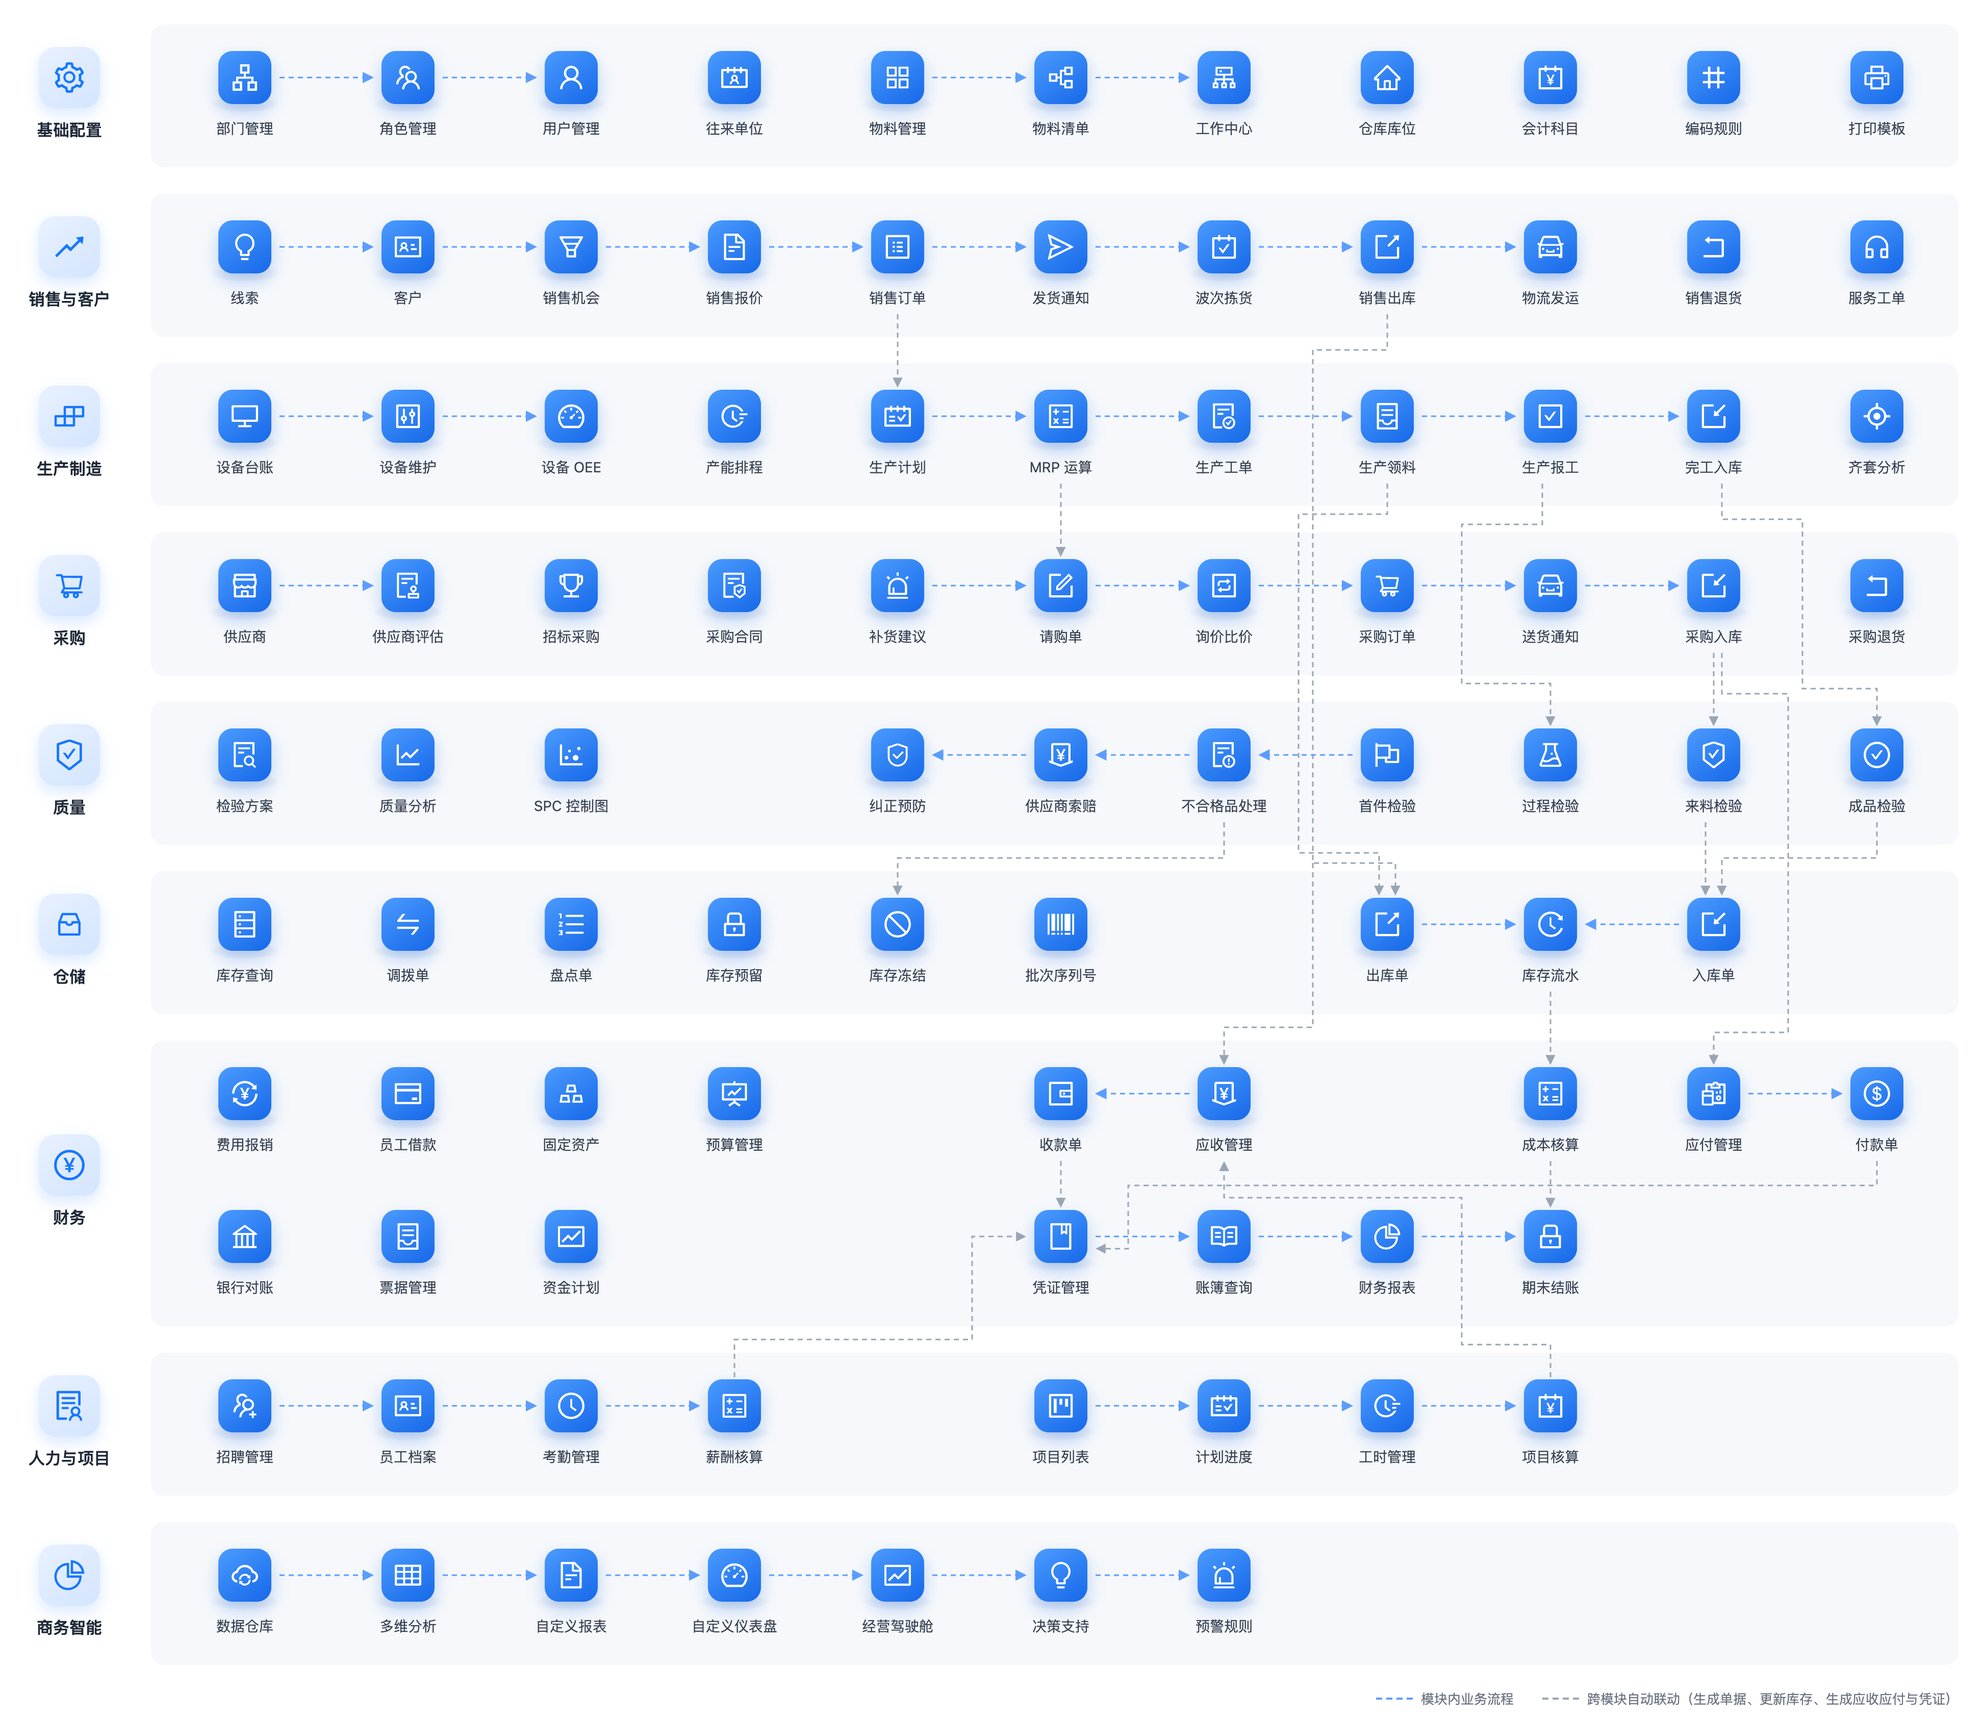
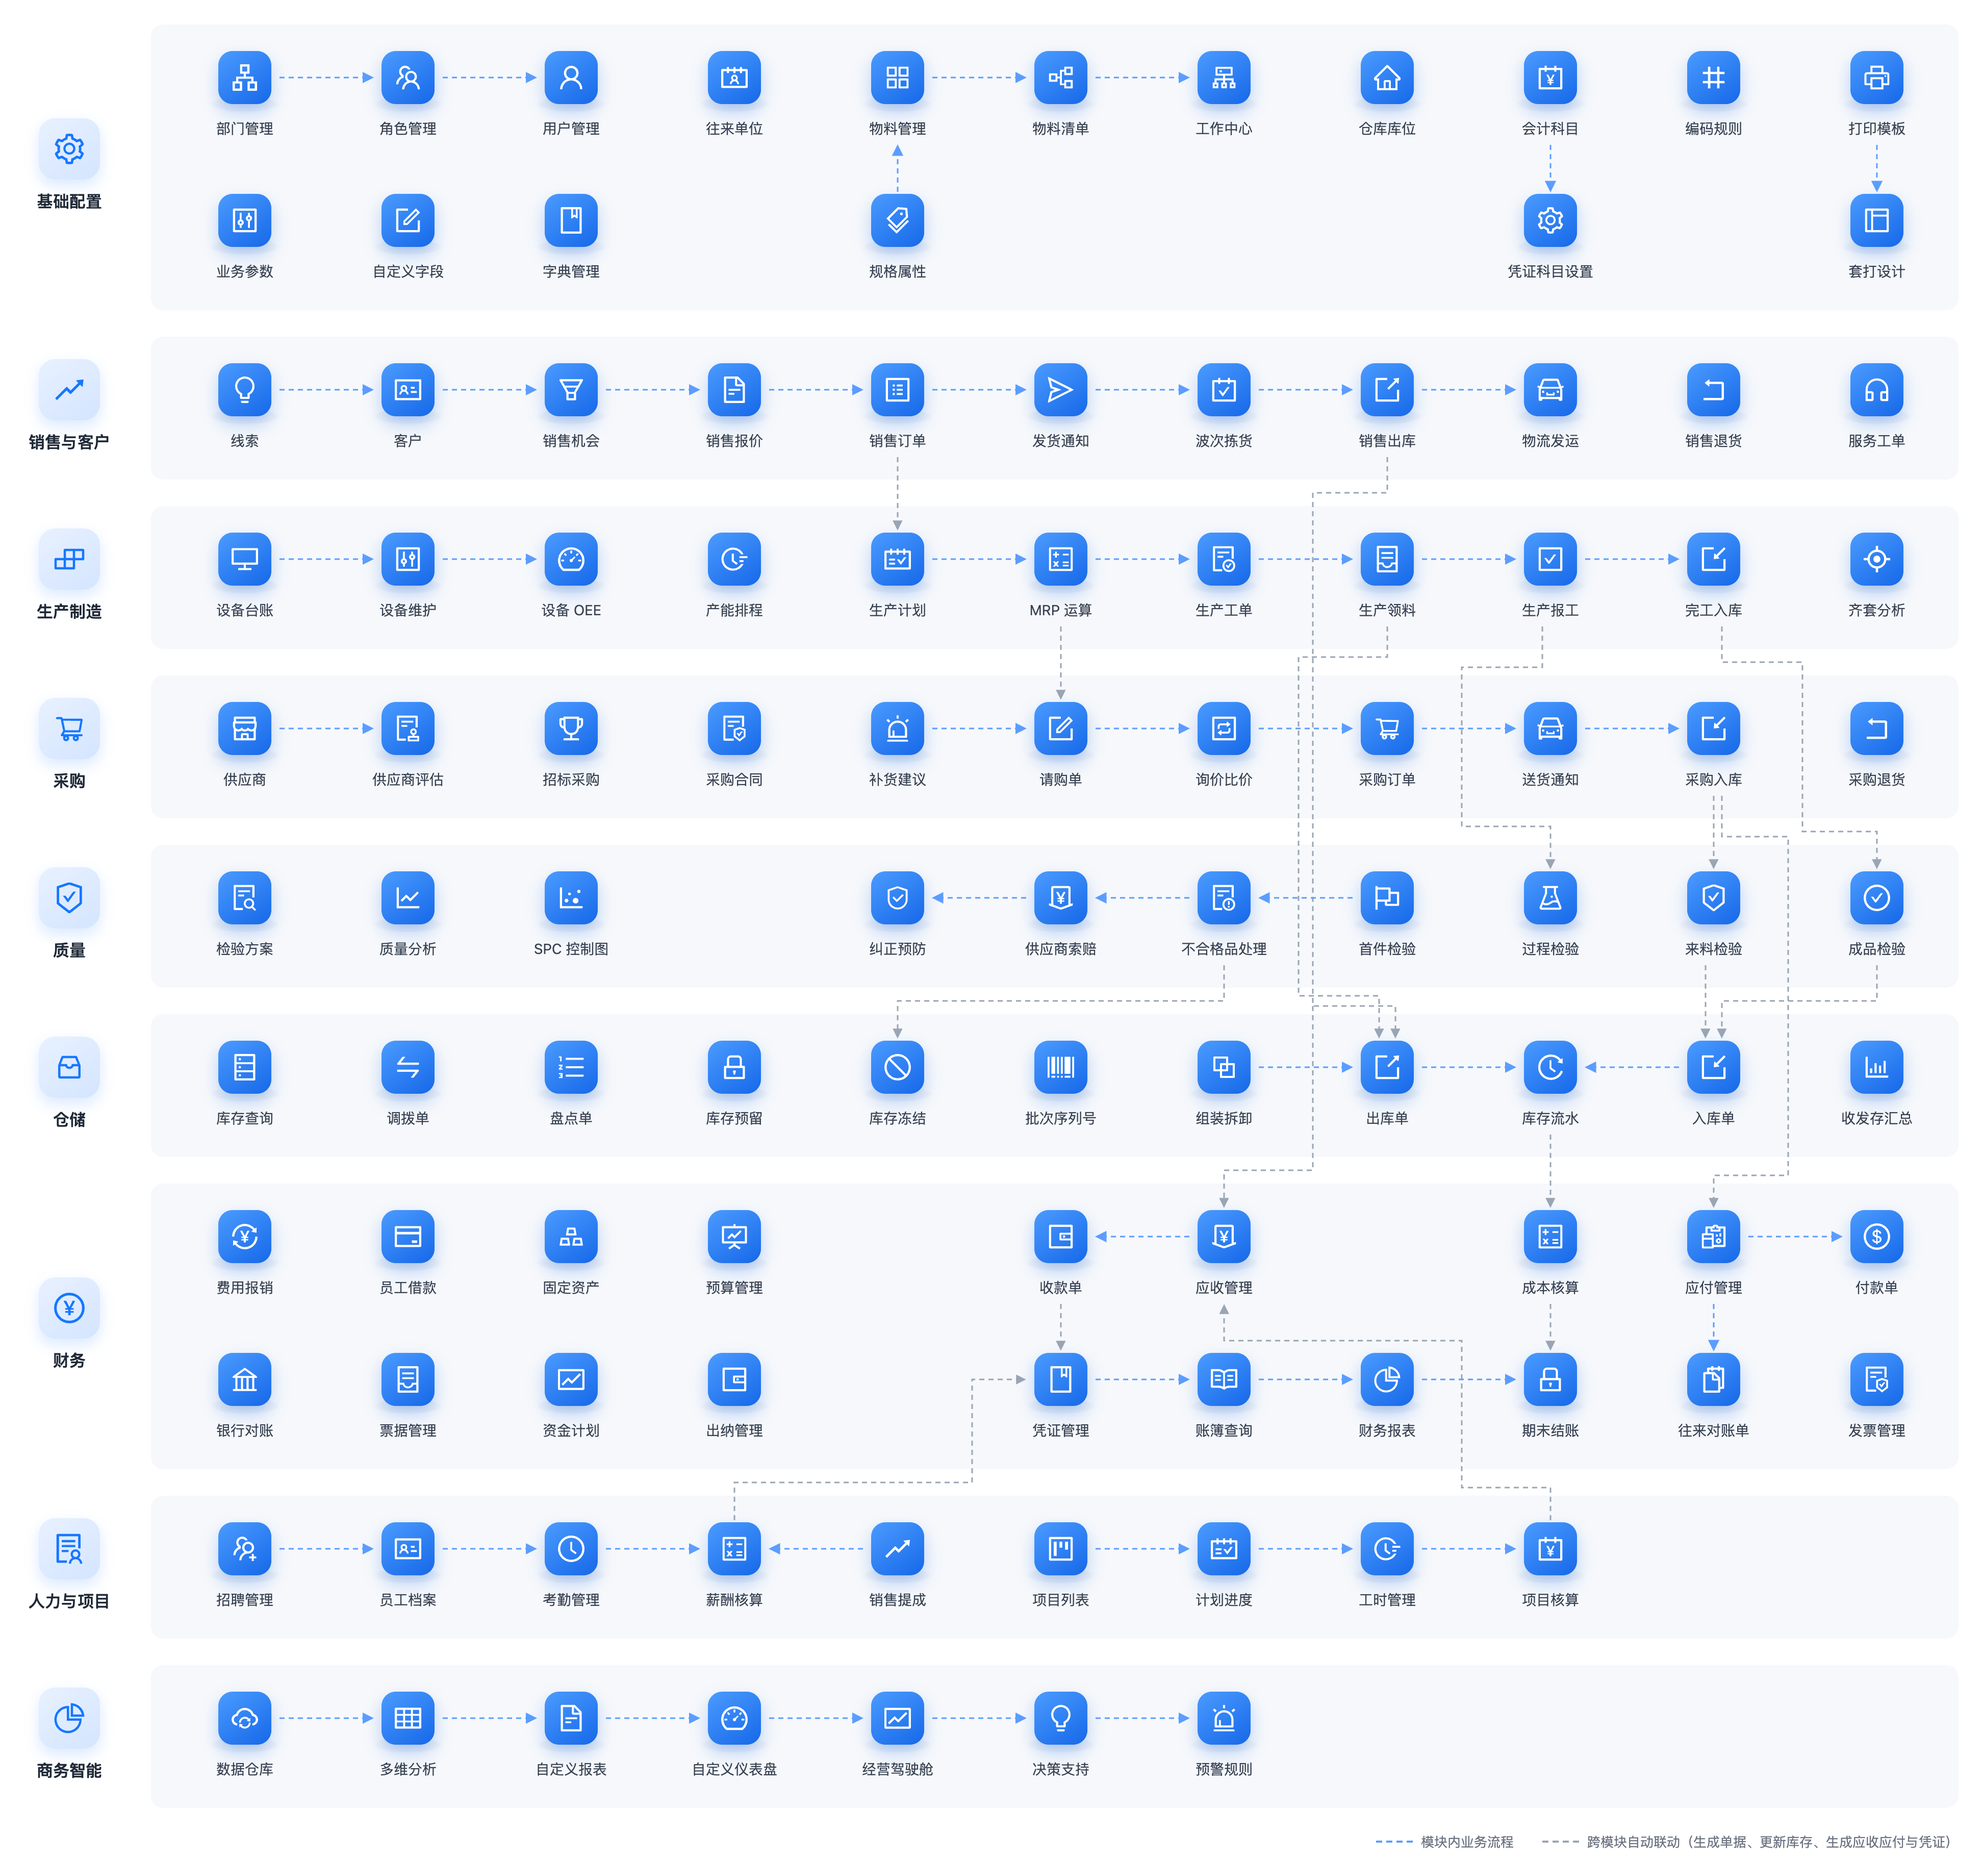
docs: 更新架构图与功能页面数

diff --git a/README.md b/README.md
@@ -44,7 +44,7 @@
 
 柠檬ERP 是一套面向中小制造、商贸企业的**全功能开源 ERP**，前后端分离，开箱即用。
 
-- **业务全覆盖**：13 大模块、140+ 功能页面，从请购到收款、从 BOM 到完工入库、从凭证到报表，一套系统闭环
+- **业务全覆盖**：13 大模块、150+ 功能页面，从请购到收款、从 BOM 到完工入库、从凭证到报表，一套系统闭环
 - **单据自动联动**：出入库自动更新库存、生成应收应付，业务单据一键生成会计凭证，账实一致
 - **技术栈新**：Spring Boot 4 + Vue 3 + Ant Design Vue 4，Gradle 多模块、单向依赖，代码结构清晰，便于二次开发
 - **完全开源**：Apache-2.0 协议，个人与企业均可免费商用
